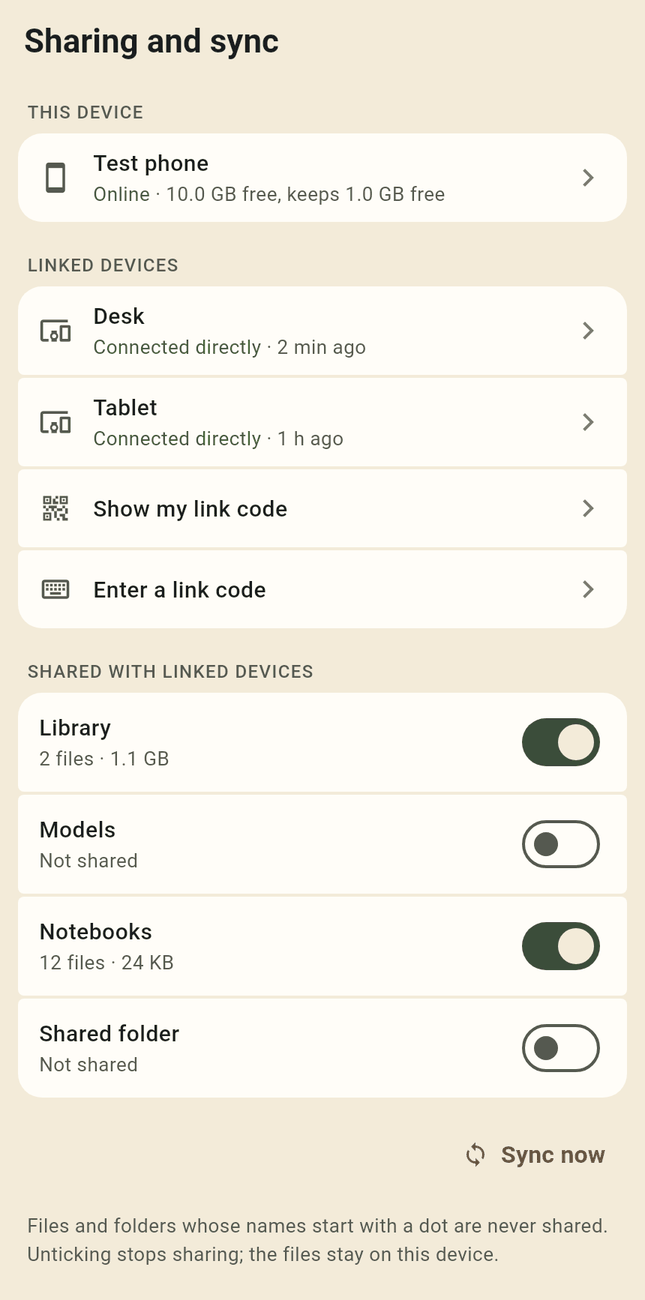
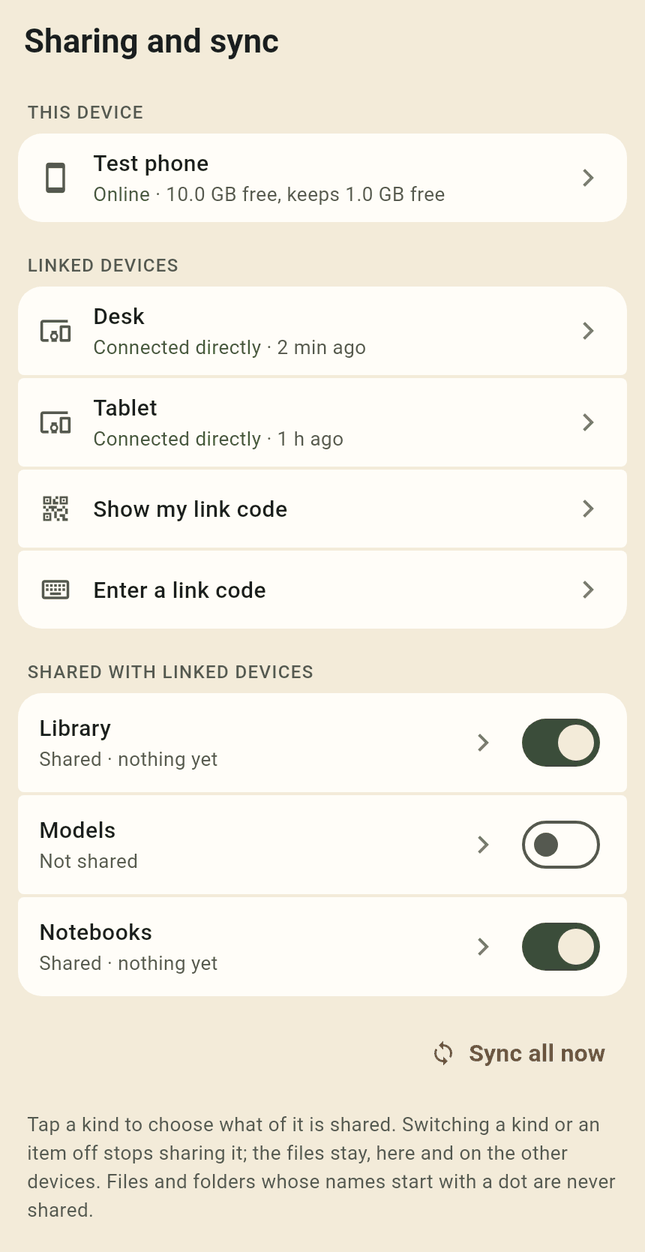
Sharing and sync: the guide picture of the main screen as it is now; the weather group's line fits a phone
Claude-Session: https://claude.ai/code/session_01XZ3UGKZH88VsfKupggk5Lm

diff --git a/app/lib/sharing/settings_sync.dart b/app/lib/sharing/settings_sync.dart
@@ -44,7 +44,7 @@ Map<String, Object?>? waitingModelDownload(SettingsEvent ev) {
 enum SettingsGroupId {
   appearance('Appearance', 'Theme, module icons, dark PDF pages'),
   home('Home screen', 'Layout and shortcuts'),
-  weather('Weather and alerts', 'Sources on, what weather watches, your own sources'),
+  weather('Weather and alerts', 'Sources on, what weather watches'),
   notifications('Notifications', 'Which alerts pop up, quiet hours'),
   maps('Map layers', 'Which layers are on'),
   ask('Ask', 'Model, web search');
